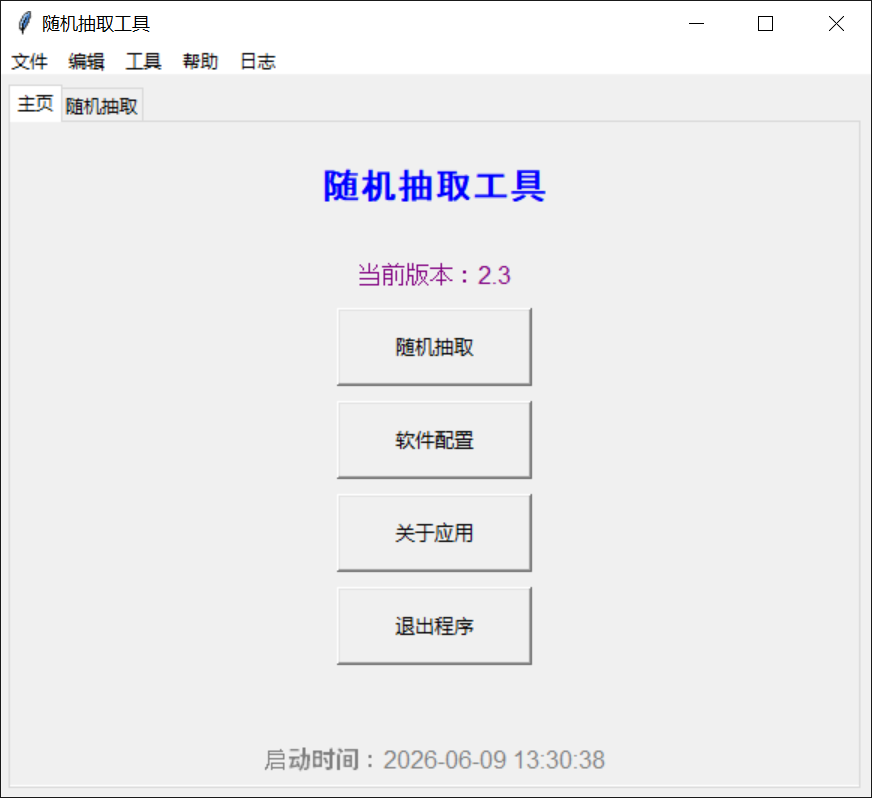
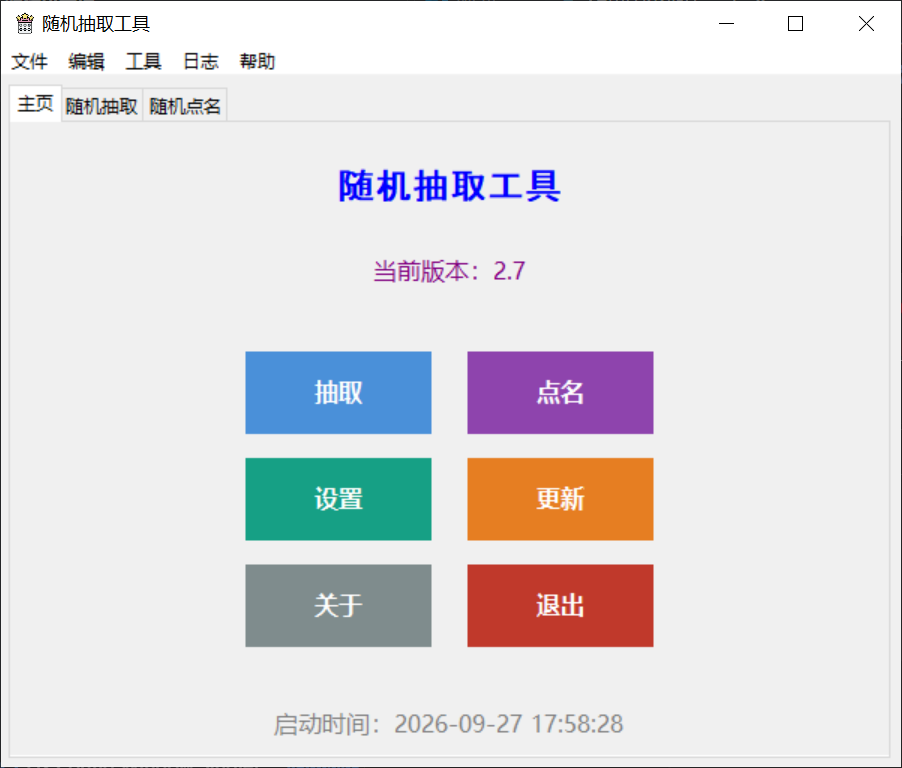
Update V2.7 Pictures

diff --git a/index.html b/index.html
@@ -158,15 +158,15 @@
                     </div>
                     <div class="gallery-item">
                         <a href="img/img2.png" target="_blank">
-                            <img src="img/img2.png" alt="随机抽组" />
+                            <img src="img/img2.png" alt="随机抽取" />
                         </a>
-                        <p>随机抽组功能</p>
+                        <p>随机抽取功能</p>
                     </div>
                     <div class="gallery-item">
                         <a href="img/img3.png" target="_blank">
-                            <img src="img/img3.png" alt="随机抽人" />
+                            <img src="img/img3.png" alt="随机点名" />
                         </a>
-                        <p>随机抽人功能</p>
+                        <p>随机点名功能</p>
                     </div>
                 </div>
             </div>
